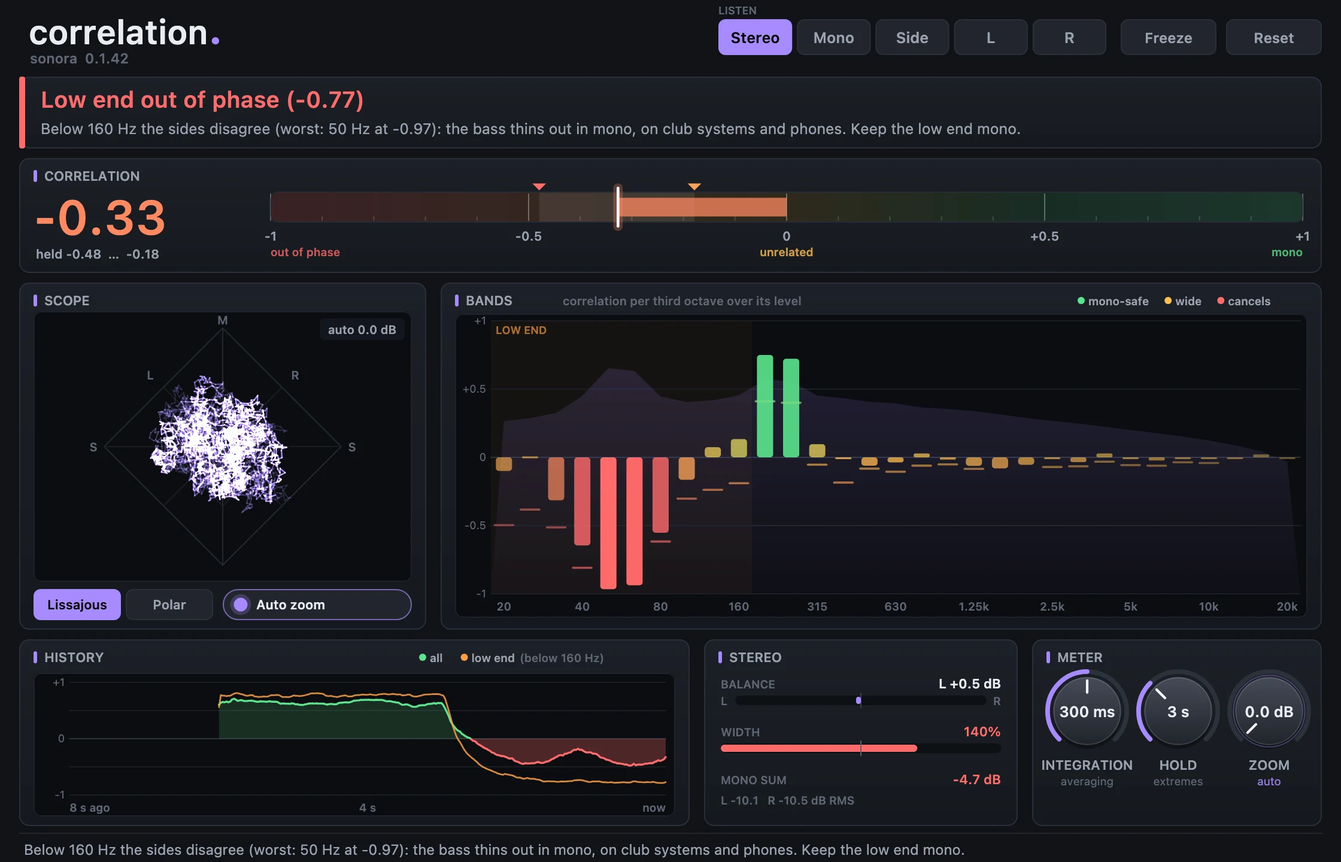
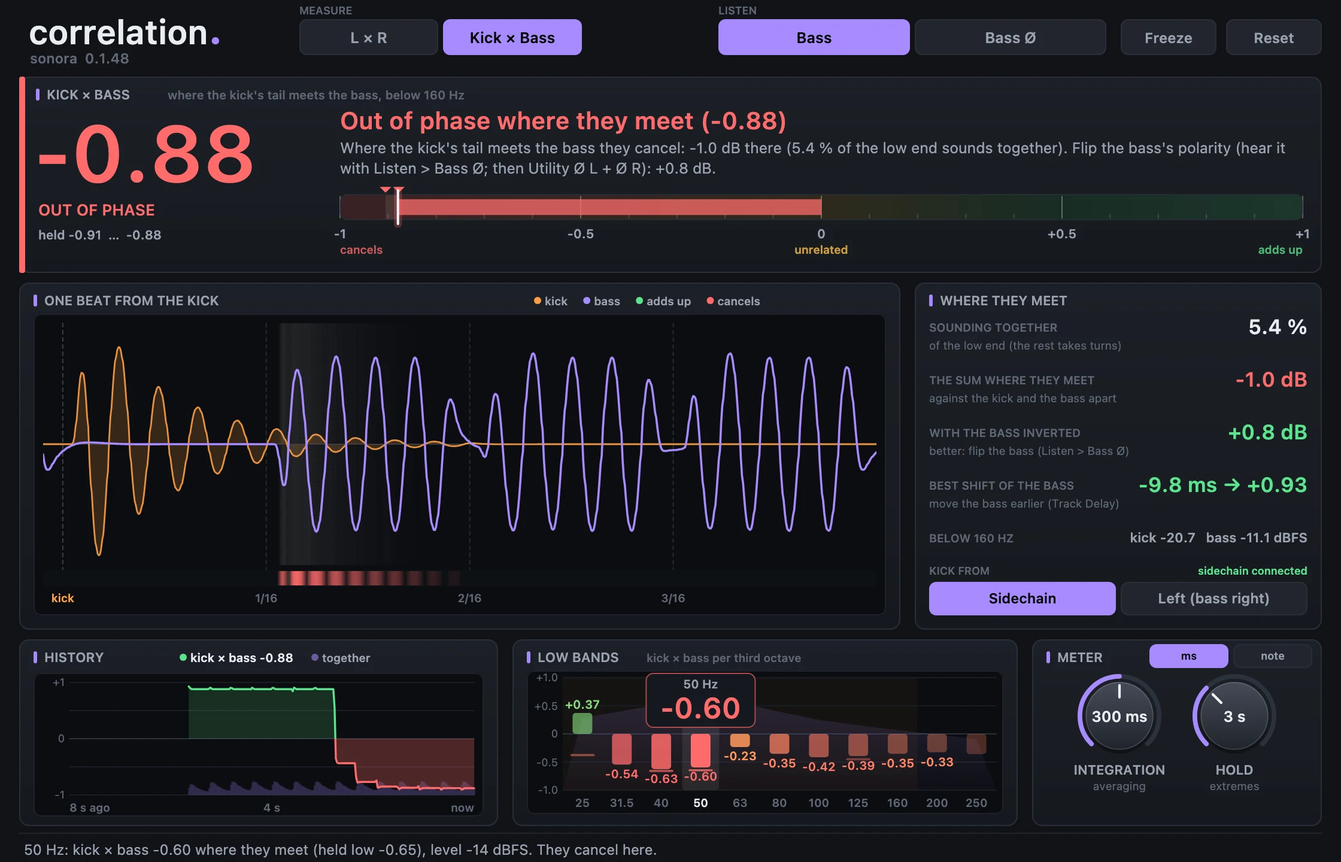
Site for Sonora 0.1.50

diff --git a/download.html b/download.html
@@ -68,7 +68,7 @@
           <a class="btn btn-ghost" href="#files">All downloads</a>
         </div>
         <p class="small faint" id="dl-note" style="margin-top:16px">Pick the file for your computer below.</p>
-        <p class="small faint" style="margin-top:4px">Current version: <span data-version>0.1.49</span></p>
+        <p class="small faint" style="margin-top:4px">Current version: <span data-version>0.1.50</span></p>
         <p class="small" style="margin-top:8px"><span class="badge badge-alpha">Alpha</span> Expect bugs. <a href="#alpha">Read this first</a>.</p>
       </div>
       <figure class="shot hide-narrow"><img src="assets/img/splash.webp" width="1200" height="720" alt="Sonora's start-up window: the Sonora wordmark and the tagline Music production, open."></figure>
@@ -96,29 +96,29 @@
     <div class="section-head">
       <span class="eyebrow">Sonora DAW</span>
       <h2>Pick your system</h2>
-      <p class="lede">Version <span data-version>0.1.49</span>, the newest release. Each file name carries its version. Older versions and the <code>.sha256</code> checksums are on <a href="https://github.com/lordillusions/sonora/releases">GitHub Releases</a>, next to the source code.</p>
+      <p class="lede">Version <span data-version>0.1.50</span>, the newest release. Each file name carries its version. Older versions and the <code>.sha256</code> checksums are on <a href="https://github.com/lordillusions/sonora/releases">GitHub Releases</a>, next to the source code.</p>
     </div>
     <div class="grid dl-grid">
       <div class="card dl-card" data-os="mac">
         <span class="tag">macOS · Apple silicon · Alpha</span>
         <h3>Sonora for Mac</h3>
         <p>The main version. Open the disk image and drag Sonora to Applications. The first time, macOS asks you to allow it: see <a href="#first-launch">first launch</a>.</p>
-        <p class="file">Sonora-0.1.49.dmg</p>
-        <a class="btn btn-ghost btn-small" href="https://github.com/lordillusions/sonora/releases/download/v0.1.49/Sonora-0.1.49.dmg">Download for Mac</a>
+        <p class="file">Sonora-0.1.50.dmg</p>
+        <a class="btn btn-ghost btn-small" href="https://github.com/lordillusions/sonora/releases/download/v0.1.50/Sonora-0.1.50.dmg">Download for Mac</a>
       </div>
       <div class="card dl-card" data-os="windows">
         <span class="tag">Windows x64 · Early alpha</span>
         <h3>Sonora for Windows</h3>
         <p>An early build, much less tested than the Mac version. From 0.1.8 it updates itself; Windows still warns about an unknown publisher: see <a href="#first-launch">first launch</a>.</p>
-        <p class="file">Sonora-0.1.49-windows-x64-setup.exe</p>
-        <a class="btn btn-ghost btn-small" href="https://github.com/lordillusions/sonora/releases/download/v0.1.49/Sonora-0.1.49-windows-x64-setup.exe">Download for Windows</a>
+        <p class="file">Sonora-0.1.50-windows-x64-setup.exe</p>
+        <a class="btn btn-ghost btn-small" href="https://github.com/lordillusions/sonora/releases/download/v0.1.50/Sonora-0.1.50-windows-x64-setup.exe">Download for Windows</a>
       </div>
       <div class="card dl-card" data-os="linux">
         <span class="tag">Linux x64 · Early alpha</span>
         <h3>Sonora for Linux</h3>
         <p>Ubuntu and Debian: get the <code>.deb</code> package, it installs Sonora with your other apps. Other distributions: the AppImage, which needs one extra step before it runs (see <a href="#first-launch">first launch</a>). Both update themselves from 0.1.8 on.</p>
-        <p class="file">sonora_0.1.49_amd64.deb<br>Sonora-0.1.49-x86_64.AppImage</p>
-        <div class="btn-row"><a class="btn btn-ghost btn-small" href="https://github.com/lordillusions/sonora/releases/download/v0.1.49/sonora_0.1.49_amd64.deb">.deb (Ubuntu, Debian)</a><a class="btn btn-ghost btn-small" href="https://github.com/lordillusions/sonora/releases/download/v0.1.49/Sonora-0.1.49-x86_64.AppImage">AppImage</a></div>
+        <p class="file">sonora_0.1.50_amd64.deb<br>Sonora-0.1.50-x86_64.AppImage</p>
+        <div class="btn-row"><a class="btn btn-ghost btn-small" href="https://github.com/lordillusions/sonora/releases/download/v0.1.50/sonora_0.1.50_amd64.deb">.deb (Ubuntu, Debian)</a><a class="btn btn-ghost btn-small" href="https://github.com/lordillusions/sonora/releases/download/v0.1.50/Sonora-0.1.50-x86_64.AppImage">AppImage</a></div>
       </div>
     </div>
     <p class="table-note">Alpha builds aren't signed by Apple or Microsoft yet, so the first launch needs one extra step: <a href="#first-launch">here's how</a>. Only download Sonora from this site or from <a href="https://github.com/lordillusions/sonora/releases">its GitHub repository</a>.</p>
@@ -138,72 +138,72 @@
         <span class="tag">Instrument · VST3 · macOS Apple silicon</span>
         <h3>Sonora Prism</h3>
         <p>A wavetable synth. Three oscillators that morph through their wavetables, with sub and noise, two filters, envelopes and LFOs you can draw, eight macros, and up to 32 voices with unison. Comes with its own presets.</p>
-        <p class="file">Sonora-Prism-VST3-0.1.49.pkg</p>
-        <a class="btn btn-ghost btn-small" href="https://github.com/lordillusions/sonora/releases/download/v0.1.49/Sonora-Prism-VST3-0.1.49.pkg">Download Prism</a>
+        <p class="file">Sonora-Prism-VST3-0.1.50.pkg</p>
+        <a class="btn btn-ghost btn-small" href="https://github.com/lordillusions/sonora/releases/download/v0.1.50/Sonora-Prism-VST3-0.1.50.pkg">Download Prism</a>
       </div>
       <div class="card dl-card" id="curve-lfo">
         <figure class="shot"><img src="assets/img/plugin-curve-lfo.webp" width="2284" height="616" alt="Sonora Curve LFO: a drawn curve that modulates volume, pan, filter cutoff and resonance, with sync, swing and depth controls." loading="lazy"></figure>
         <span class="tag">Audio effect · VST3 · macOS Apple silicon</span>
         <h3>Sonora Curve LFO</h3>
         <p>Draw a curve and let it move the sound: volume, pan, filter cutoff and resonance, in time with your DAW's tempo. Use it for sidechain-style pumping, gates, filter sweeps and rhythmic movement. MIDI notes can restart the curve.</p>
-        <p class="file">Sonora-Curve-LFO-VST3-0.1.49.pkg</p>
-        <a class="btn btn-ghost btn-small" href="https://github.com/lordillusions/sonora/releases/download/v0.1.49/Sonora-Curve-LFO-VST3-0.1.49.pkg">Download Curve LFO</a>
+        <p class="file">Sonora-Curve-LFO-VST3-0.1.50.pkg</p>
+        <a class="btn btn-ghost btn-small" href="https://github.com/lordillusions/sonora/releases/download/v0.1.50/Sonora-Curve-LFO-VST3-0.1.50.pkg">Download Curve LFO</a>
       </div>
       <div class="card dl-card" id="hush">
         <figure class="shot"><img src="assets/img/plugin-hush.webp" width="1800" height="1064" alt="Sonora Hush: the spectrum with the reduction it applies, a depth curve with band nodes, soft and hard modes, Depth, Detail, Attack and Release knobs, and bypass, delta and mix." loading="lazy"></figure>
         <span class="tag">Audio effect · VST3 · macOS Apple silicon</span>
         <h3>Sonora Hush</h3>
         <p>A dynamic resonance suppressor. Hush finds harsh resonances and build-ups as they happen and turns down only those frequencies, only while they ring. Smooth out vocals, guitars, cymbals and full mixes, with a curve to shape where it works, sidechain, mid/side and a delta mode to hear what it removes. Hush is also built into Sonora itself: you only need this installer to use it in another DAW.</p>
-        <p class="file">Sonora-Hush-VST3-0.1.49.pkg</p>
-        <a class="btn btn-ghost btn-small" href="https://github.com/lordillusions/sonora/releases/download/v0.1.49/Sonora-Hush-VST3-0.1.49.pkg">Download Hush</a>
+        <p class="file">Sonora-Hush-VST3-0.1.50.pkg</p>
+        <a class="btn btn-ghost btn-small" href="https://github.com/lordillusions/sonora/releases/download/v0.1.50/Sonora-Hush-VST3-0.1.50.pkg">Download Hush</a>
       </div>
       <div class="card dl-card" id="kickstract">
         <figure class="shot"><img src="assets/img/plugin-kickstract.webp" width="2220" height="660" alt="Sonora Kickstract: a spectrum split into low, mid and high bands with draggable crossovers, the last extracted kick with each band's gate envelope, band Length, Fade and Gain knobs, and Punch, Drive and Output." loading="lazy"></figure>
         <span class="tag">Audio effect · VST3 · macOS Apple silicon</span>
         <h3>Sonora Kickstract</h3>
         <p>Pull a clean kick out of a full mix. Kickstract splits the sound into low, mid and high bands (150 Hz and 1.5 kHz to start, move them as you like), hears every kick and cuts each band short right after the hit, so the hats, bass and pads between kicks fall away. Set how long each band rings, add punch and drive, and watch the extracted kick on its own display. The Timeline window shows the input, the kick and what was removed scrolling live; freeze it to study a hit. Also built into Sonora.</p>
-        <p class="file">Sonora-Kickstract-VST3-0.1.49.pkg</p>
-        <a class="btn btn-ghost btn-small" href="https://github.com/lordillusions/sonora/releases/download/v0.1.49/Sonora-Kickstract-VST3-0.1.49.pkg">Download Kickstract</a>
+        <p class="file">Sonora-Kickstract-VST3-0.1.50.pkg</p>
+        <a class="btn btn-ghost btn-small" href="https://github.com/lordillusions/sonora/releases/download/v0.1.50/Sonora-Kickstract-VST3-0.1.50.pkg">Download Kickstract</a>
       </div>
       <div class="card dl-card" id="stutter">
         <figure class="shot"><img src="assets/img/plugin-stutter.webp" width="2320" height="1516" alt="Sonora Stutter: the input recorded with the capture window, read head and where the voice was heard, the output with every grain drawn as its envelope, the Auto panel with eight presets and the preset's timeline of moves, a big Hold pad, the Motion knob with seven modes (Swell, Rewind, Shatter, Freeze, Spread, Tunnel, Retrigger), and Grain, Every, Shape, Speed, Jitter, Width, Pitch, Space, Tone, Mix and Level knobs." loading="lazy"></figure>
         <span class="tag">Audio effect · VST3 · macOS Apple silicon</span>
         <h3>Sonora Stutter</h3>
         <p>A granular voice stutter. Stutter keeps recording and, while you hold it (the pad, a MIDI note or automation), replays what was just sung as a stream of grains: stretched slower and slower until it stands still, rewound, shattered into fragments, frozen into a pad, spread into a wide cloud, sunk into a resonant tunnel or retriggered as a classic roll in time with your track. One knob plays it: Motion, from slow, swelling grains to short, racing ones, and each of the seven modes gives it its own character. Or press Auto, pick one of eight presets (Vocal Chop, Stretch &amp; Freeze, Build-Up, Tape Stop, Backspin, Glitch, Dub Tunnel, Cloud) and it plays itself: rolls, stretches, backspins, freezes and tape stops on your track's bars, only while the voice is there, shown on a timeline with the song's position. The display shows the recording, where the grains read and every grain that comes out. Also built into Sonora.</p>
-        <p class="file">Sonora-Stutter-VST3-0.1.49.pkg</p>
-        <a class="btn btn-ghost btn-small" href="https://github.com/lordillusions/sonora/releases/download/v0.1.49/Sonora-Stutter-VST3-0.1.49.pkg">Download Stutter</a>
+        <p class="file">Sonora-Stutter-VST3-0.1.50.pkg</p>
+        <a class="btn btn-ghost btn-small" href="https://github.com/lordillusions/sonora/releases/download/v0.1.50/Sonora-Stutter-VST3-0.1.50.pkg">Download Stutter</a>
       </div>
       <div class="card dl-card" id="phase-align">
         <figure class="shot"><img src="assets/img/plugin-phase-align.webp" width="2200" height="1200" alt="Sonora Phase Align: a verdict in words (how much low end it adds on every kick), the phase dial, the last kick with the bass before and after and the kick plus bass sum, the gain per hit, and Angle, Speed, Crossover, Threshold, Window, Min. Shared, Listen and Output." loading="lazy"></figure>
         <span class="tag">Audio effect · VST3 · macOS Apple silicon</span>
         <h3>Sonora Phase Align</h3>
         <p>Keeps your bass in phase with the kick, hit by hit. Put it on the bass and send it the kick through its sidechain. On every kick it measures how the low end of both adds up and turns the phase of the bass below the crossover to where they reinforce each other instead of cancelling, and it tells you in words what it gains: "+2.4 dB more low end on every kick", or why there is nothing to align (a bass that is silent under the kick, or at another pitch), in which case it leaves the bass untouched. See each kick with the bass before and after and the sum of both. Also built into Sonora.</p>
-        <p class="file">Sonora-Phase-Align-VST3-0.1.49.pkg</p>
-        <a class="btn btn-ghost btn-small" href="https://github.com/lordillusions/sonora/releases/download/v0.1.49/Sonora-Phase-Align-VST3-0.1.49.pkg">Download Phase Align</a>
+        <p class="file">Sonora-Phase-Align-VST3-0.1.50.pkg</p>
+        <a class="btn btn-ghost btn-small" href="https://github.com/lordillusions/sonora/releases/download/v0.1.50/Sonora-Phase-Align-VST3-0.1.50.pkg">Download Phase Align</a>
       </div>
       <div class="card dl-card" id="sweep">
         <figure class="shot"><img src="assets/img/plugin-sweep.webp" width="2200" height="1400" alt="Sonora Sweep: ten ready-made types, the rendered sweep under its filter, pitch and level curves with the drop marked, sources White, Pink, Supersaw, Sine, Whoosh, Metal and Sample, Up and Down, lengths from 1 beat to 32 bars, a Preview button, and Filter, Pitch, Chord, Shape and Out controls." loading="lazy"></figure>
         <span class="tag">Instrument · VST3 · macOS Apple silicon</span>
         <h3>Sonora Sweep</h3>
         <p>Risers, downlifters and reverse swells of any length, always ending on the beat. Pick a type (white riser, pink wash, supersaw rise, tension gate, whoosh, reverse crash, sub drop, downlifter, laser) or build your own from white or pink noise, a supersaw chord, a sine, a whoosh or a metallic cymbal wash, no sample needed. Choose 1 beat to 32 bars, hit Preview, and see the sweep drawn over its bars with the drop marked. Drop any sample on it, a chord, a crash or a vocal, and Sweep reverses it with a reverb tail and pitches it up so it lands right on its own attack. Also built into Sonora, where samples come straight from the Browser and any audio clip can become a riser or downlifter on a new track.</p>
-        <p class="file">Sonora-Sweep-VST3-0.1.49.pkg</p>
-        <a class="btn btn-ghost btn-small" href="https://github.com/lordillusions/sonora/releases/download/v0.1.49/Sonora-Sweep-VST3-0.1.49.pkg">Download Sweep</a>
+        <p class="file">Sonora-Sweep-VST3-0.1.50.pkg</p>
+        <a class="btn btn-ghost btn-small" href="https://github.com/lordillusions/sonora/releases/download/v0.1.50/Sonora-Sweep-VST3-0.1.50.pkg">Download Sweep</a>
       </div>
       <div class="card dl-card" id="correlation">
-        <figure class="shot"><img src="assets/img/plugin-correlation.webp" width="2240" height="1440" alt="Sonora Correlation: a verdict in words (here: low end out of phase, with the band that cancels), the correlation meter from out of phase to mono with the held extremes, a Lissajous scope, the correlation of 31 third-octave bands over their level with the low end marked, an 8 second history, balance, width and the mono sum, and Listen Stereo, Mono, Side, L and R." loading="lazy"></figure>
+        <figure class="shot"><img src="assets/img/plugin-correlation.webp" width="2240" height="1440" alt="Sonora Correlation in Kick &times; Bass mode: the kick against the bass where they meet, -0.88 in big numbers, the verdict (out of phase: flip the bass's polarity, +0.8 dB), one beat from the kick with the kick's tail and the bass drawn over each other and the cancelling spots marked red, where they meet (5 % of the low end sounds together, the sum there, with the bass inverted, the best shift), the history, the low bands with their values and the 50 Hz band read under the pointer, and Integration with ms or note values." loading="lazy"></figure>
         <span class="tag">Audio effect · VST3 · macOS Apple silicon</span>
         <h3>Sonora Correlation</h3>
-        <p>A stereo correlation meter that tells you in words whether your mix survives mono: "Mono-compatible", "Very wide", "Low end out of phase" with the band that cancels, or "Out of phase: it cancels in mono". The big meter goes from -1 (one side inverted) through 0 (unrelated) to +1 (mono) and marks the lowest and highest readings it held. Below it: a Lissajous or polar scope, the correlation of 31 third-octave bands drawn over their level (so a phasey bass or a too-wide pad shows exactly where it is), an 8 second history of the whole mix and its low end, balance, width and how many dB the mono sum loses. Listen switches the output to Mono, Side, Left or Right to check by ear. Audio passes through untouched. Also built into Sonora.</p>
-        <p class="file">Sonora-Correlation-VST3-0.1.49.pkg</p>
-        <a class="btn btn-ghost btn-small" href="https://github.com/lordillusions/sonora/releases/download/v0.1.49/Sonora-Correlation-VST3-0.1.49.pkg">Download Correlation</a>
+        <p>A stereo correlation meter that tells you in words whether your mix survives mono: "Mono-compatible", "Very wide", "Low end out of phase" with the band that cancels, or "Out of phase: it cancels in mono". The big meter goes from -1 (one side inverted) through 0 (unrelated) to +1 (mono) and marks the lowest and highest readings it held. Below it: a Lissajous or polar scope, the correlation of 31 third-octave bands drawn over their level (so a phasey bass or a too-wide pad shows exactly where it is), an 8 second history of the whole mix and its low end, balance, width and how many dB the mono sum loses. Listen switches the output to Mono, Side, Left or Right to check by ear. <strong>Kick &times; Bass</strong>: put it on the bass track with the kick on its sidechain and it tells you, with a big number, whether the bass adds up to or cancels the kick where the kick's tail meets the bass, how many dB that costs, whether flipping the bass or shifting it a few ms would help, and draws one beat from the kick with the cancelling spots in red. Integration can follow the tempo (1/16, 1/4...). Audio passes through untouched. Also built into Sonora.</p>
+        <p class="file">Sonora-Correlation-VST3-0.1.50.pkg</p>
+        <a class="btn btn-ghost btn-small" href="https://github.com/lordillusions/sonora/releases/download/v0.1.50/Sonora-Correlation-VST3-0.1.50.pkg">Download Correlation</a>
       </div>
       <div class="card dl-card" id="phrase">
         <figure class="shot"><img src="assets/img/plugin-phrase.webp" width="2320" height="1560" alt="Sonora Phrase: a preset bar, the parts Arp, Stabs, Pad and Bass, the chord progression as chips with their lengths, a step grid of chord tones with velocity, gate, chance, accent, slide and tie lanes, the generator's style controls with Dice, Mutate and Answer, the whole part drawn over the progression, and Density, Swing, Kick Guard and the other performance knobs." loading="lazy"></figure>
         <span class="tag">Instrument that sends MIDI · VST3 · macOS Apple silicon</span>
         <h3>Sonora Phrase</h3>
         <p>Melodies for progressive and melodic trance. Give it a key, a scale and a chord progression (pick the chords from a palette of every chord of the key, play them in, or share them between instances), choose a part and it plays it over the chords: pedal and rolling arps with accents off the beat, question-and-answer chord stabs, wide pads that hold their common tones, or a rolling bass that leaves the kick alone. Every step is editable, Dice writes a new pattern in the style you set, Answer writes the phrase that closes a question, and one Density knob builds a part up over 16 bars. Over 60 presets. It sends MIDI: put your synth on another track listening to it, or drag the part out as a MIDI file. A small built-in voice lets you hear it on its own. Also built into Sonora, where it writes its part straight into a clip.</p>
-        <p class="file">Sonora-Phrase-VST3-0.1.49.pkg</p>
-        <a class="btn btn-ghost btn-small" href="https://github.com/lordillusions/sonora/releases/download/v0.1.49/Sonora-Phrase-VST3-0.1.49.pkg">Download Phrase</a>
+        <p class="file">Sonora-Phrase-VST3-0.1.50.pkg</p>
+        <a class="btn btn-ghost btn-small" href="https://github.com/lordillusions/sonora/releases/download/v0.1.50/Sonora-Phrase-VST3-0.1.50.pkg">Download Phrase</a>
       </div>
       <div class="card dl-card" id="seraph">
         <figure class="shot"><img src="assets/img/plugin-seraph.webp" width="2320" height="1500" alt="Sonora Seraph: a preset bar, the Voices and Real switch, the choir's stalls with one glowing dot per singer, sections Men, Women, Mixed, Boys and four solo voices, the vowel strip A E I O U over the live formant curve and harmonics, Tension, Breath, Size and Bright, eight human controls from vibrato to scoop, the envelope, a chant phrase drawn as steps with key, scale, organum and ison, the trance gate as a step lane with its pattern, rate and position, and the space from a room to an endless cathedral." loading="lazy"></figure>
@@ -211,8 +211,8 @@
         <h3>Sonora Seraph</h3>
         <p>A choir you play from the keyboard: angel voices, monks, a full cathedral choir, boys, or a single soloist, all without a single sample. Every singer is a synthesised human voice (a breathing throat shaped into ah, eh, ee, oh and ooh by published measurements of sung vowels), and no two singers are alike: their tuning, timing, vibrato and throats differ, the way a real choir does. Hold one note and Chant sings an old three-note phrase around it, in your key, locked to the bars, with parallel fifths and a low drone. Turn on the Gate for the chopped voice pads of trance, put it before or after the hall, and pick a space from a small room to an endless cathedral. Real voices: drop your own dry, held sung note (a vocal sample you own works) and it becomes a whole section at any pitch, or get the optional Seraph Voices pack of recorded singers. 85 presets in ten families, from Angels and Monks to Gated and Real Choir. Also built into Sonora.</p>
         <p class="small faint">The Seraph Voices pack holds recordings from "VocalSet: A Singing Voice Dataset" by Julia Wilkins, Prem Seetharaman, Alison Wahl and Bryan Pardo (<a href="https://doi.org/10.5281/zenodo.1193957">doi.org/10.5281/zenodo.1193957</a>), licensed under <a href="https://creativecommons.org/licenses/by/4.0/">CC BY 4.0</a>, selected, trimmed and levelled. Music made with these voices must carry that credit; Seraph shows the line, ready to copy.</p>
-        <p class="file">Sonora-Seraph-VST3-0.1.49.pkg</p>
-        <a class="btn btn-ghost btn-small" href="https://github.com/lordillusions/sonora/releases/download/v0.1.49/Sonora-Seraph-VST3-0.1.49.pkg">Download Seraph</a>
+        <p class="file">Sonora-Seraph-VST3-0.1.50.pkg</p>
+        <a class="btn btn-ghost btn-small" href="https://github.com/lordillusions/sonora/releases/download/v0.1.50/Sonora-Seraph-VST3-0.1.50.pkg">Download Seraph</a>
       </div>
     </div>
     <p class="table-note">The plug-ins are alpha too, and macOS asks you to allow each installer the first time (<a href="#first-launch">first launch</a>). Windows and Linux versions of the plug-ins aren't available yet.</p>
@@ -242,7 +242,7 @@
         <span class="tag">Windows 10 and 11</span>
         <h3>Windows: "Windows protected your PC"</h3>
         <ol>
-          <li>Run <code>Sonora-0.1.49-windows-x64-setup.exe</code>. SmartScreen shows a blue window.</li>
+          <li>Run <code>Sonora-0.1.50-windows-x64-setup.exe</code>. SmartScreen shows a blue window.</li>
           <li>Click <strong>More info</strong>.</li>
           <li>Click <strong>Run anyway</strong> and follow the installer.</li>
         </ol>
@@ -254,14 +254,14 @@
         <p><strong>Ubuntu or Debian (.deb):</strong></p>
         <ol>
           <li>Open a terminal in your Downloads folder (in Files, right-click an empty area &gt; <strong>Open in Terminal</strong>).</li>
-          <li>Run <code>sudo apt install ./sonora_0.1.49_amd64.deb</code> and type your password.</li>
+          <li>Run <code>sudo apt install ./sonora_0.1.50_amd64.deb</code> and type your password.</li>
           <li>Start Sonora from your apps. <code>.als</code> sets now open in Sonora too.</li>
         </ol>
         <p><strong>AppImage:</strong> browsers save it without permission to run, so double-clicking only offers Disks or App Center. Don't use those:</p>
         <ol>
-          <li>In Files, right-click <code>Sonora-0.1.49-x86_64.AppImage</code> &gt; <strong>Properties</strong>.</li>
+          <li>In Files, right-click <code>Sonora-0.1.50-x86_64.AppImage</code> &gt; <strong>Properties</strong>.</li>
           <li>Turn on <strong>Executable as Program</strong> (on older systems: Permissions tab, <strong>Allow executing file as program</strong>).</li>
-          <li>Close the window and double-click the AppImage. Or, in a terminal: <code>chmod +x Sonora-0.1.49-x86_64.AppImage</code> then <code>./Sonora-0.1.49-x86_64.AppImage</code>.</li>
+          <li>Close the window and double-click the AppImage. Or, in a terminal: <code>chmod +x Sonora-0.1.50-x86_64.AppImage</code> then <code>./Sonora-0.1.50-x86_64.AppImage</code>.</li>
         </ol>
         <p class="small faint">If the AppImage still won't start, run it from a terminal and send us the message it prints.</p>
       </div>

diff --git a/faq.html b/faq.html
@@ -100,7 +100,7 @@
     <div class="faq-group" id="instruments">
       <h2>Instruments</h2>
       <details><summary>What is Sonora Prism?</summary><div><p>Sonora's own wavetable synth: three wavetable oscillators, sub and noise, two filters, four envelopes, ten LFOs, a 64-slot modulation matrix with drag-to-modulate, macros, an arpeggiator and an effects rack. It saves its own <code>.prism</code> presets, and it's free.</p></div></details>
-      <details><summary>Can I use Sonora's instruments and effects in another DAW?</summary><div><p>Yes, on Apple silicon Macs: Sonora Prism (wavetable synth), Sonora Curve LFO (drawn modulation), Sonora Hush (resonance suppressor), Sonora Kickstract (pulls the clean kick out of a drum loop) Sonora Stutter (vocal stutters and retriggers) Sonora Phase Align (keeps the bass in phase with the kick), Sonora Sweep (risers and downlifters), Sonora Correlation (stereo correlation meter), Sonora Phrase (melody generator: arps, chord stabs, pads and bass lines over your chords) and Sonora Seraph (choir instrument) are free VST3 plug-ins. Install them from the <a href="download.html#plugins">download page</a>, then rescan plug-ins in your DAW. They're alpha too, so please report problems.</p></div></details>
+      <details><summary>Can I use Sonora's instruments and effects in another DAW?</summary><div><p>Yes, on Apple silicon Macs: Sonora Prism (wavetable synth), Sonora Curve LFO (drawn modulation), Sonora Hush (resonance suppressor), Sonora Kickstract (pulls the clean kick out of a drum loop) Sonora Stutter (vocal stutters and retriggers) Sonora Phase Align (keeps the bass in phase with the kick), Sonora Sweep (risers and downlifters), Sonora Correlation (stereo correlation meter, and kick against bass phase), Sonora Phrase (melody generator: arps, chord stabs, pads and bass lines over your chords) and Sonora Seraph (choir instrument) are free VST3 plug-ins. Install them from the <a href="download.html#plugins">download page</a>, then rescan plug-ins in your DAW. They're alpha too, so please report problems.</p></div></details>
       <details><summary>What does Sonora Resynth do?</summary><div><p>It listens to a recorded bass line or melody, creates editable MIDI from it, and builds an instrument that resynthesizes the sound from harmonics and modeled noise. You can then play new notes and reshape the sound like a synth. It works best on dry parts with one note at a time. Everything runs on your Mac.</p></div></details>
       <details><summary>Is Resynth available as a plug-in?</summary><div><p>Not yet. Sonora Resynth works inside Sonora only for now.</p></div></details>
     </div>
